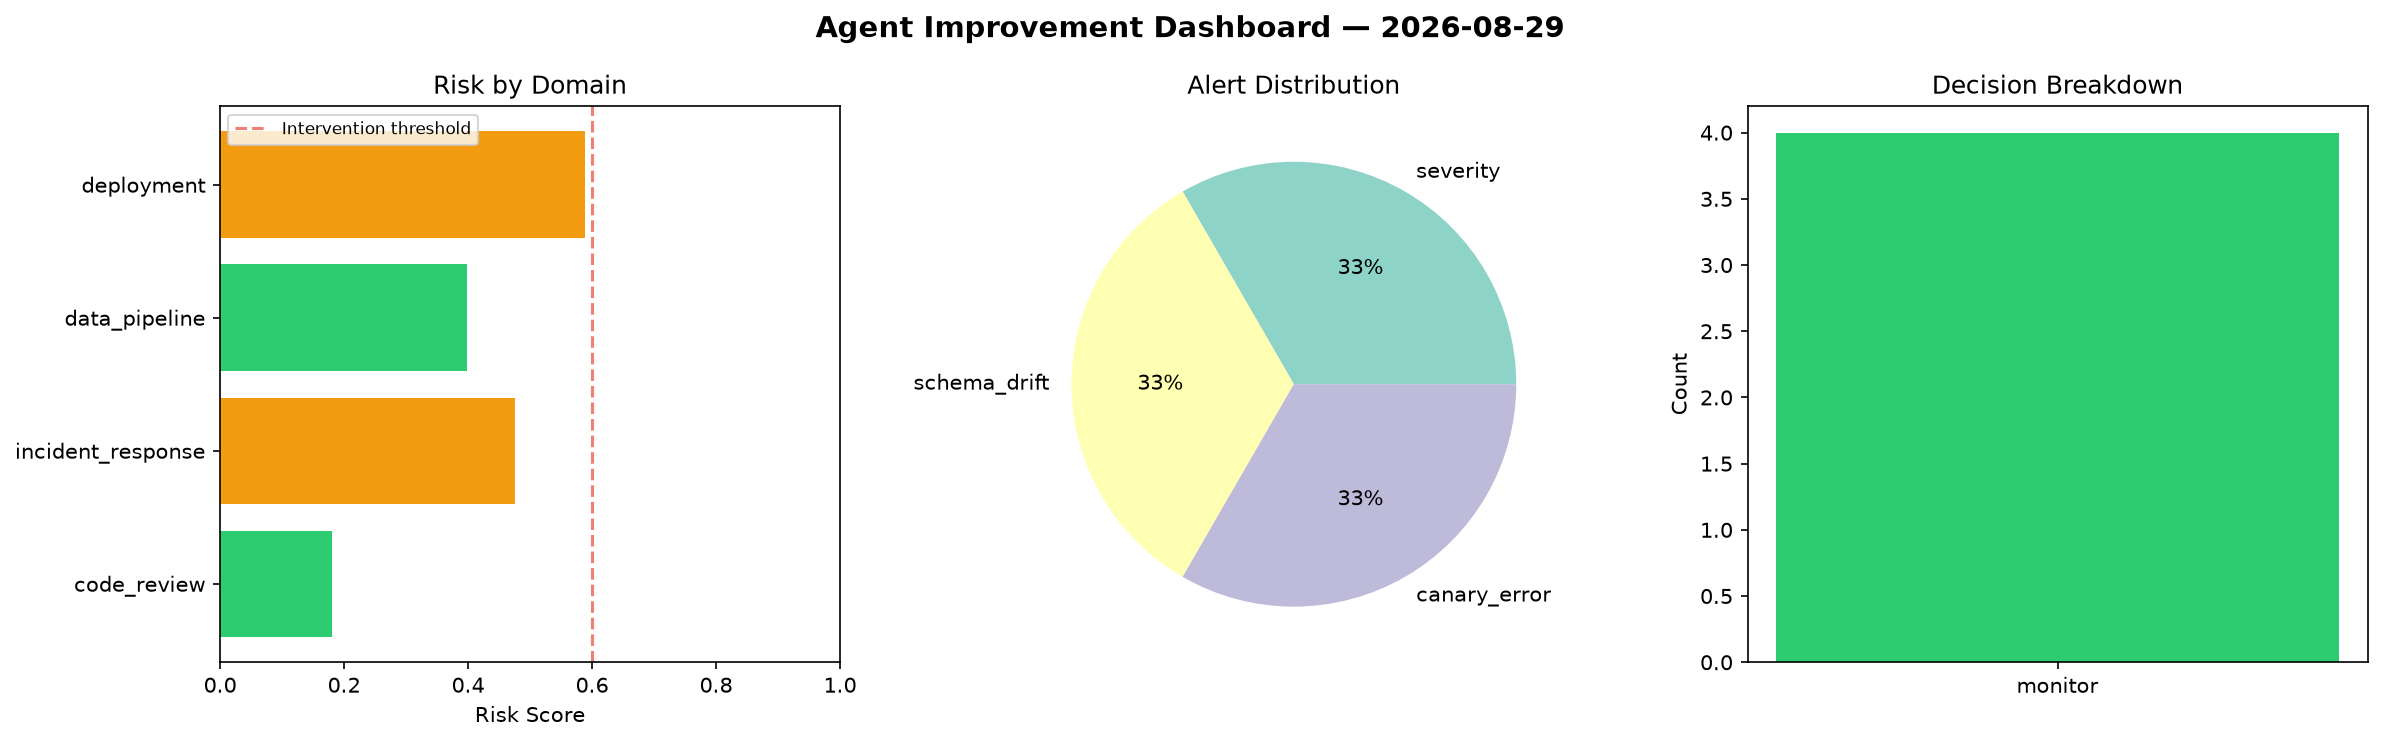
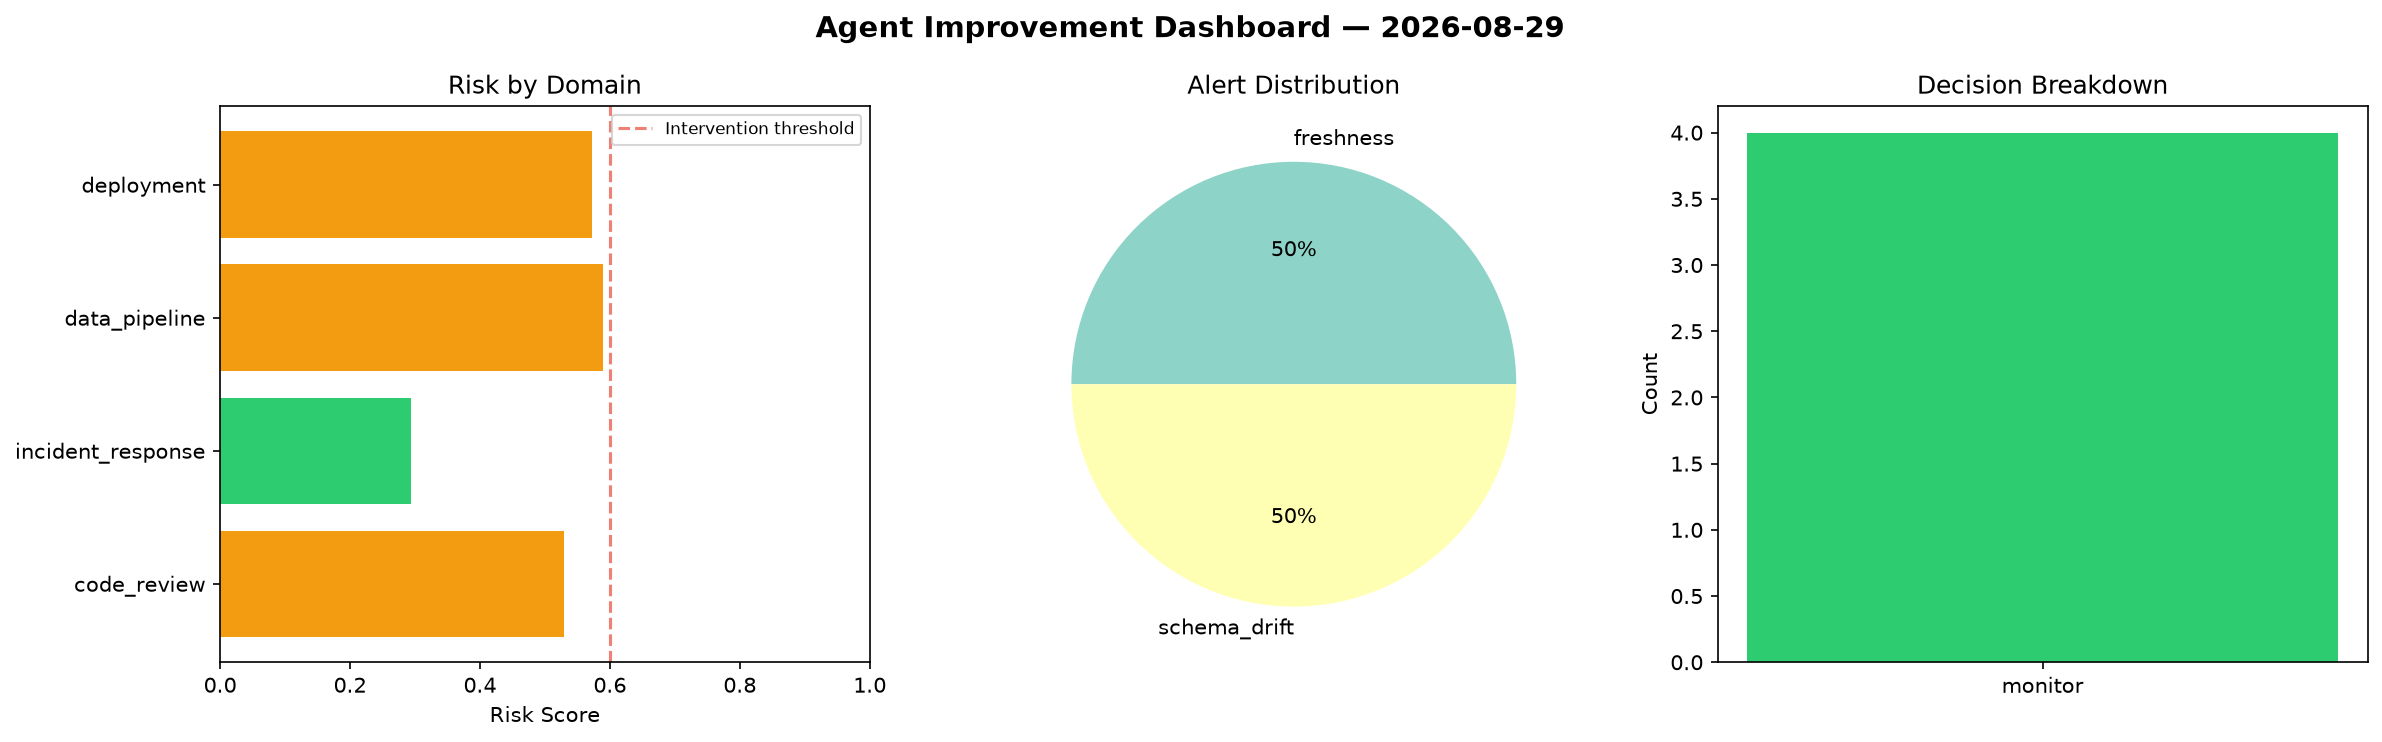
agent-improvement: daily cycle 2026-08-29T13:50

diff --git a/logs/2026-08-29.md b/logs/2026-08-29.md
@@ -1,6 +1,6 @@
 # Agent Improvement Report — 2026-08-29
 
-**Cycle ID:** `5596ed0e` | **Avg Risk:** 0.4109 | **Interventions:** 0/4
+**Cycle ID:** `0f2bdabe` | **Avg Risk:** 0.4963 | **Interventions:** 0/4
 
 ![Dashboard](2026-08-29_dashboard.png)
 
@@ -10,18 +10,18 @@
 
 | Domain | Risk Score | Decision | Alerts |
 |--------|-----------|----------|--------|
-| code_review | 0.1802 | monitor | none |
-| incident_response | 0.4763 | monitor | severity |
-| data_pipeline | 0.3984 | monitor | schema_drift |
-| deployment | 0.5887 | monitor | canary_error |
+| code_review | 0.5299 | monitor | none |
+| incident_response | 0.2936 | monitor | none |
+| data_pipeline | 0.5896 | monitor | freshness, schema_drift |
+| deployment | 0.5722 | monitor | none |
 
 ## Delta vs Yesterday
 
 | Domain | Today | Yesterday | Change |
 |--------|-------|-----------|--------|
-| code_review | 0.1802 | 0.516 | 📉 -65.1% |
-| incident_response | 0.4763 | 0.7513 | 📉 -36.6% |
-| data_pipeline | 0.3984 | 0.5301 | 📉 -24.8% |
-| deployment | 0.5887 | 0.5088 | 📈 15.7% |
+| code_review | 0.5299 | 0.516 | 📈 2.7% |
+| incident_response | 0.2936 | 0.7513 | 📉 -60.9% |
+| data_pipeline | 0.5896 | 0.5301 | 📈 11.2% |
+| deployment | 0.5722 | 0.5088 | 📈 12.5% |
 
 **Refinement:** `{'adjustment': 'tighten_thresholds', 'trend': 'degrading', 'window': 4}`
